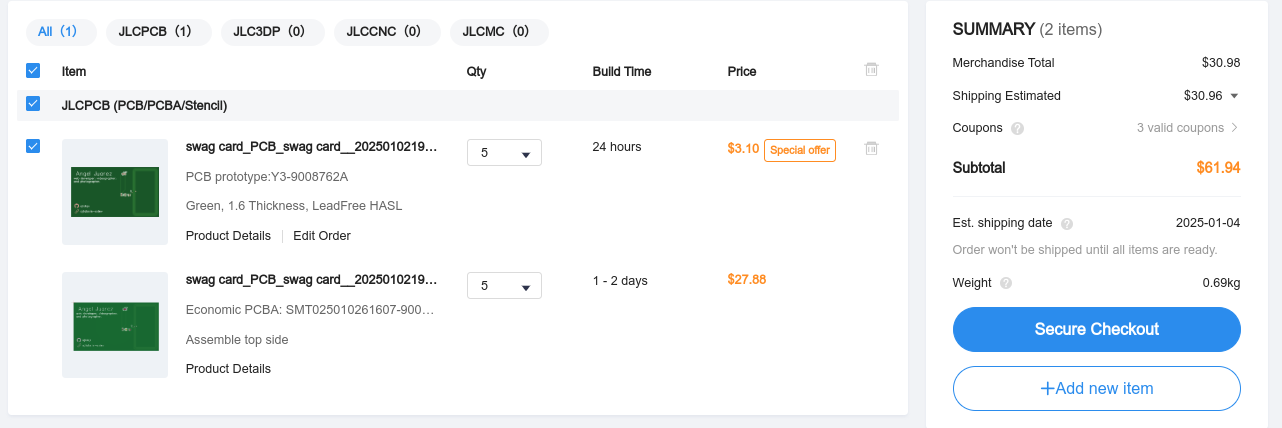
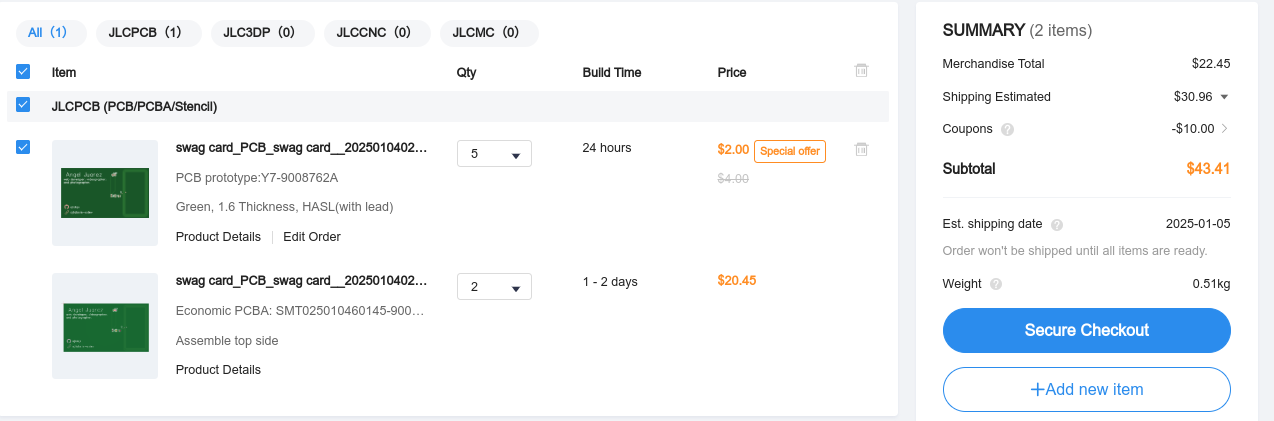
new cart image

diff --git a/projects/AJ-swag-NFC-card/README.md b/projects/AJ-swag-NFC-card/README.md
@@ -13,6 +13,6 @@ This will simply be used to tell others about my skills as a web developer and o
 <!-- Describe your board in 2-3 sentences. What are you making? What will it do? -->
 
 <!-- How much is it going to cost? -->
-The total cost of the 5 pcb cards will be $61.94 since the pcb itself is $3.10 (with some special offer I can't get rid of), the assembly for the pcb is $27.88, and the estimated shipping is around $30.96.
+The total cost of 2 pcb cards will be $43.41 since the pcb itself is $2 (with some special offer I can't get rid of), the assembly for the pcb is $20.45, the estimated shipping is around $30.96, and I have a coupon for $10 off my order.
 
 <!-- Tell us a little bit about your design process. What were some challenges? What helped? ***Totally optional*** -->
